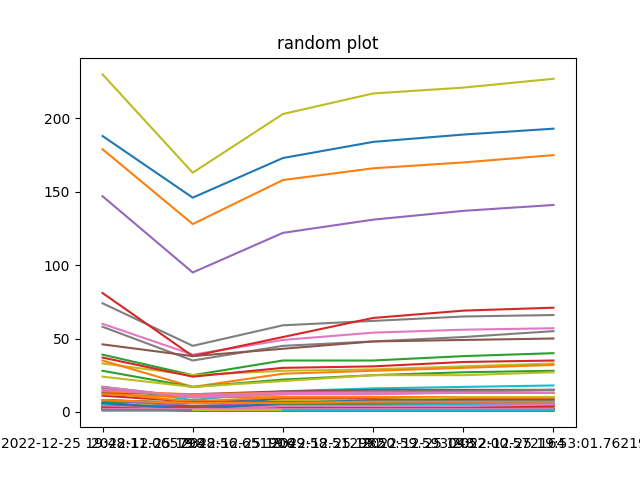
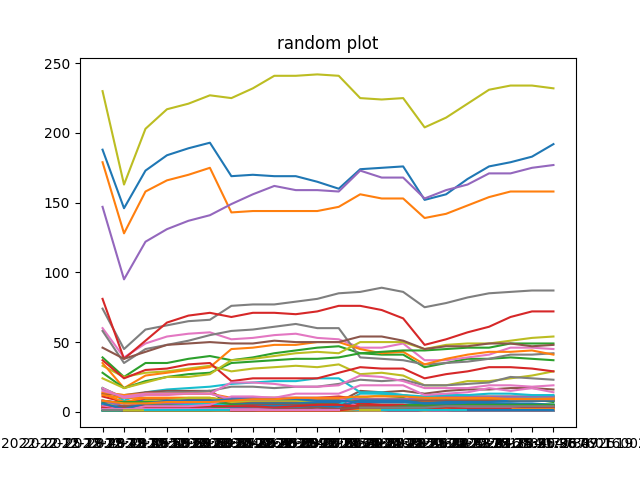
10:09 pm

diff --git a/sif-website/src/components/navbar.js b/sif-website/src/components/navbar.js
@@ -1,0 +1,19 @@
+import React from "react";
+import {Link} from "react-router-dom";
+
+function Navbar() {
+    return (
+        <>
+            <ul>
+                <li><Link to="/"> Home </Link></li>
+                <li><Link to="/sanjeev"> Sanjeev </Link></li>
+                <li><Link to="/ana"> Ana </Link></li>
+                <li><Link to="/apurva"> Apurva </Link></li>
+                <li><Link to="/anirudh"> Anirudh </Link></li>
+                <li><Link to="/richard"> Richard </Link></li>
+            </ul>
+        </>
+    );
+}
+
+export default Navbar;

diff --git a/sif-website/src/App.js b/sif-website/src/App.js
@@ -1,4 +1,7 @@
 import React, { useEffect, useState } from 'react';
+import { Route, Routes } from 'react-router-dom';
+import Flight from './components/flight.js';
+import Navbar from './components/navbar.js';
 
 function App() {
   const [image, setImage] = useState(null);

diff --git a/sif-website/src/components/flight.js b/sif-website/src/components/flight.js
@@ -1,0 +1,10 @@
+export default function Flight() {
+    return (
+        <>
+            <div class="header">
+            <h1>Sanjeev Devarajan</h1>
+            </div>
+            
+        </>
+    );
+}

diff --git a/flask/app.py b/flask/app.py
@@ -51,41 +51,6 @@ def flight():
 
     return send_file("/Users/sanjeevdevarajan/Documents/GitHub/SIF-Alternate-Data-Website/sif-website/src/components/plot5.png", mimetype="image/png")
 
-
-
-    mycursor = cnx.cursor()
-    mycursor.execute("SELECT country FROM flights")
-    country1 = mycursor.fetchall()
-
-    mycursor.execute("SELECT amount FROM flights")
-    amount1 = mycursor.fetchall()
-
-    mycursor.execute("SELECT time FROM flights")
-    time1 = mycursor.fetchall()
-
-    dict1 = {}
-
-    for x in range(len(country1)):
-        if country1[x] not in dict1.keys():
-            dict1[country1[x]] = {}
-        dict1[country1[x]][time1[x]] = amount1[x]
-        
-    for outside in dict1.keys():
-        x = []
-        y = []
-        for inside in dict1[outside].keys():
-            x.append(inside[0])
-            y.append(dict1[outside][inside][0])
-
-        plt.plot(x, y)
-
-    plt.title("random plot")
-
-    plt.savefig('/Users/sanjeevdevarajan/Documents/GitHub/SIF-Alternate-Data-Website/sif-website/src/components/plot5.png')
-    plt.clf()
-
-    return send_file("/Users/sanjeevdevarajan/Documents/GitHub/SIF-Alternate-Data-Website/sif-website/src/components/plot5.png", mimetype="image/png")
-
 @app.route("/currency")
 def currency():
 
